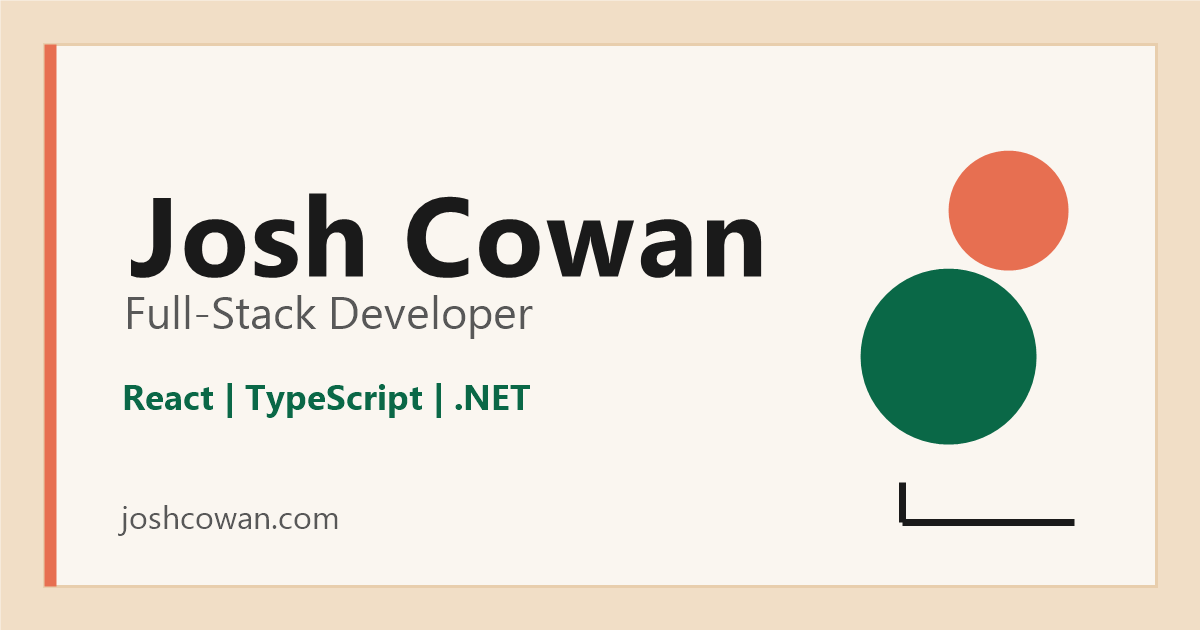
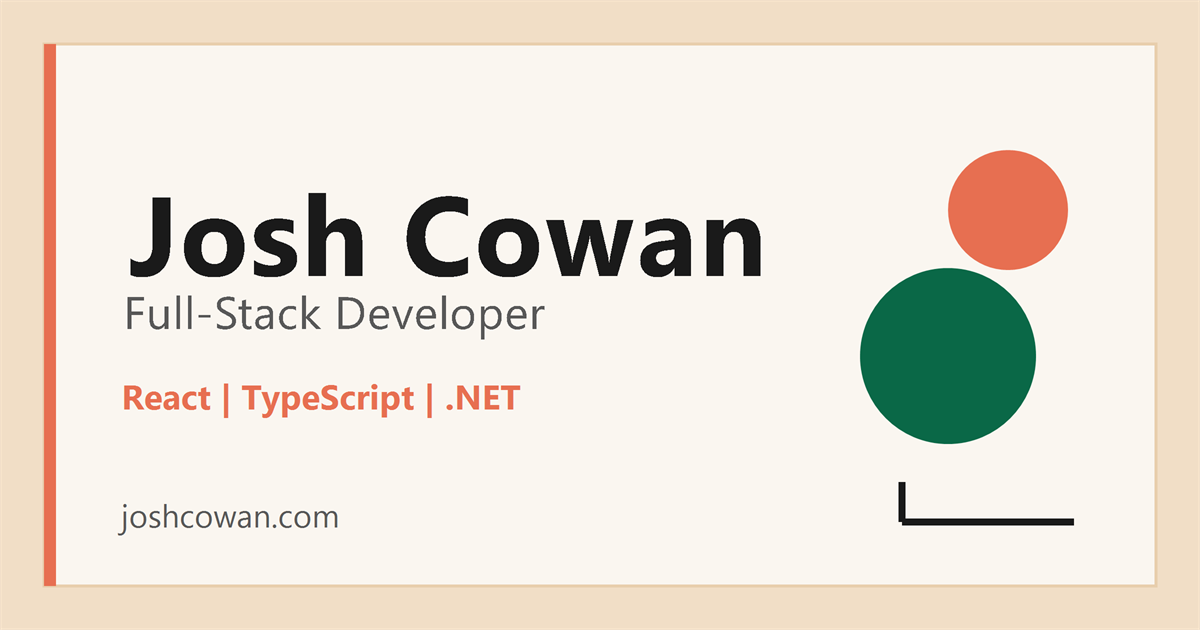
Fix Embed

diff --git a/src/data/site.ts b/src/data/site.ts
@@ -9,8 +9,8 @@ export const site = {
   linkedin: "https://www.linkedin.com/in/josh-cowan6/",
   locale: "en_CA",
   language: "en-CA",
-  socialImage: "/social-preview.svg",
-  socialImageType: "image/svg+xml",
+  socialImage: "/social-preview.png",
+  socialImageType: "image/png",
   socialImageAlt: "Josh Cowan, Full-Stack Developer.",
   description:
     "Josh Cowan is a full-stack JavaScript developer building React, TypeScript, and .NET applications.",
